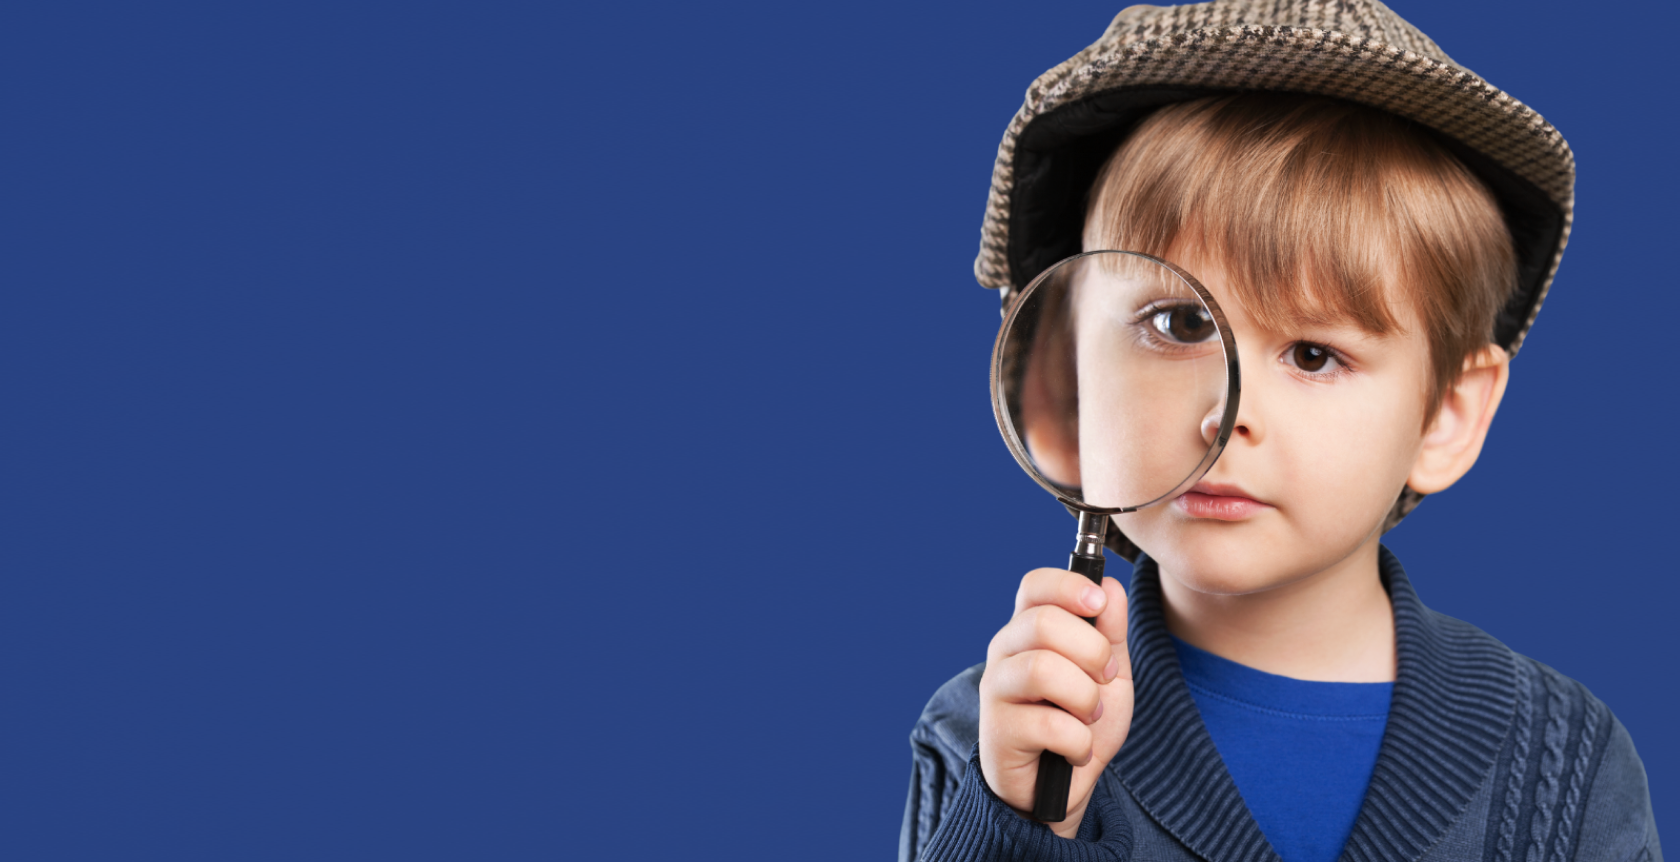
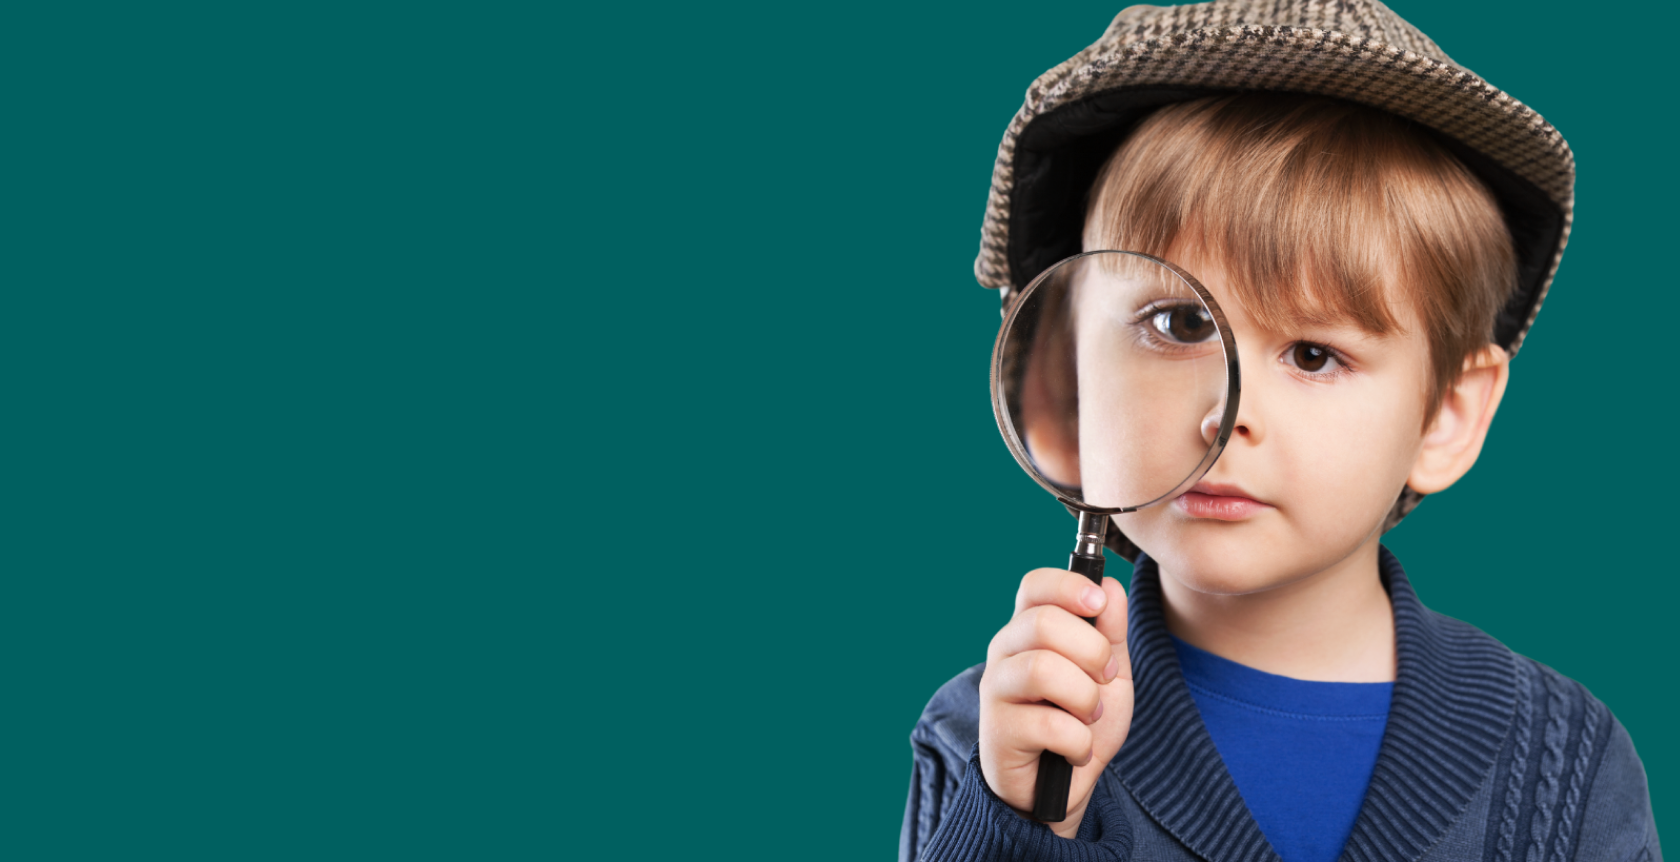
modified education industry screen

diff --git a/industry/education/css/style.css b/industry/education/css/style.css
@@ -91,7 +91,7 @@ body {
   /*header section*/
   .hero_area {
     position: relative;
-    background-color: #003366;
+    background-color: #003939;
     height: 85vh;
   }
   
@@ -608,7 +608,7 @@ body {
   /*header section*/
   .hero_area {
     position: relative;
-    background-color: #003366;
+    background-color: #003939;
     height: 85vh;
   }
   
